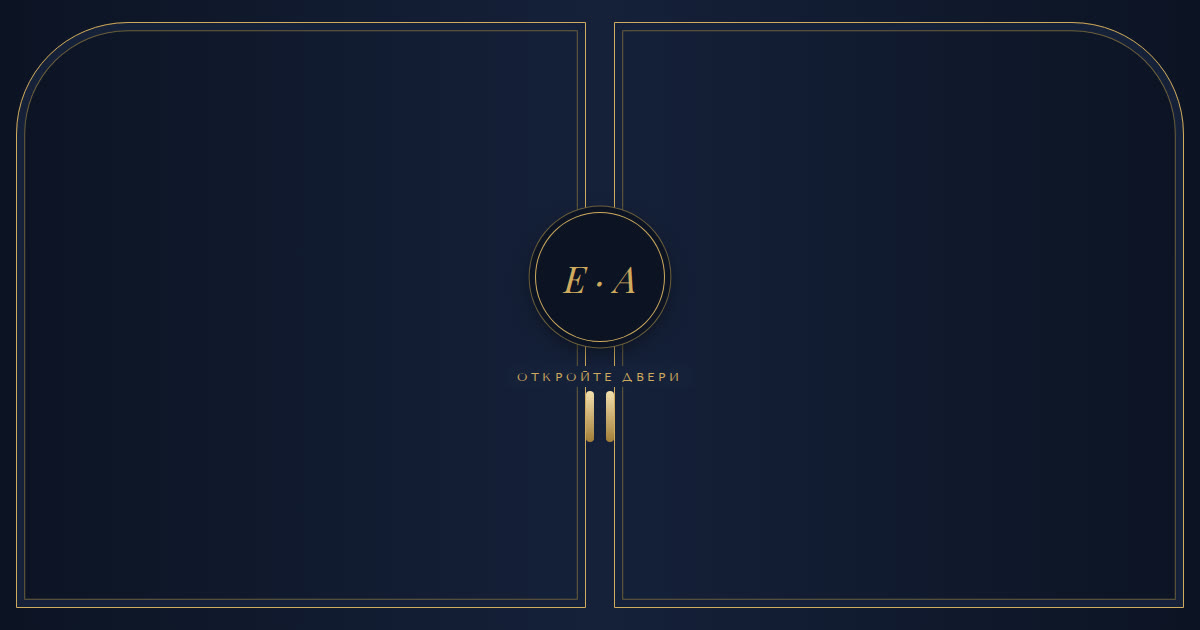
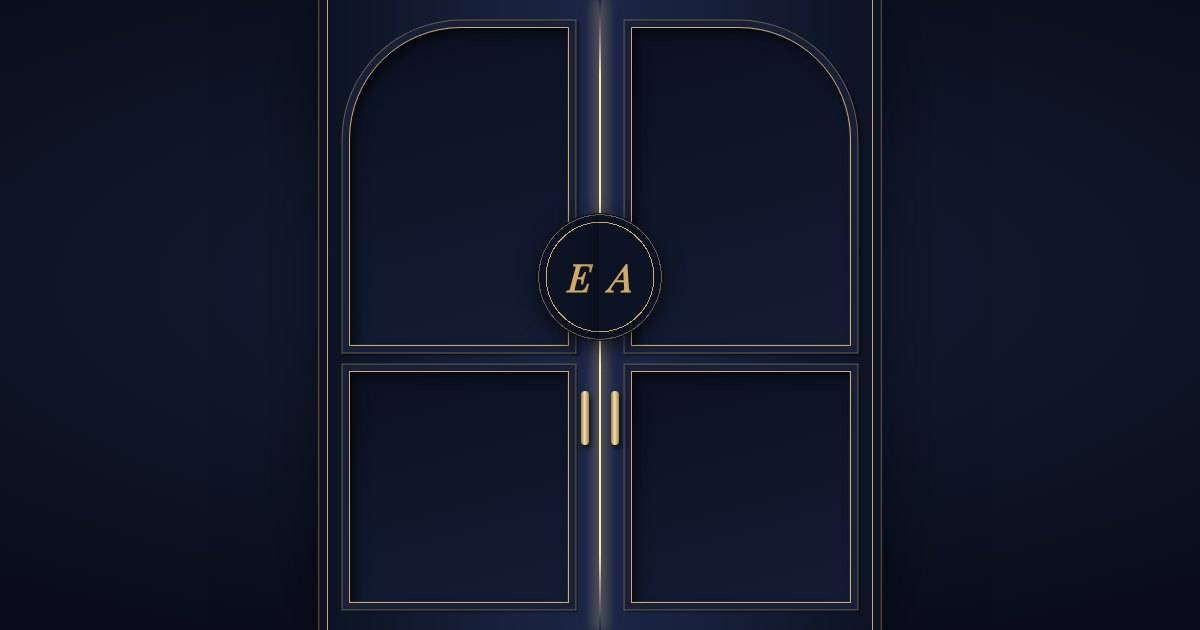
3D openings for garden (folded card with satin ribbon) and evening (hinged doors into a lit hall), shared tilt, new link previews

diff --git a/garden/index.html b/garden/index.html
@@ -17,7 +17,7 @@
 <link rel="stylesheet" href="https://fonts.googleapis.com/css2?family=Lora:ital,wght@0,400;0,500;1,400&family=Marck+Script&display=swap">
 <link rel="stylesheet" href="../assets/engine.css">
 <style>
-/* Письмо, сложенное вдвое и перевязанное лентой: мох, вода, латунь. */
+/* Карточка, сложенная вдвое и перевязанная лентой: мох, вода, латунь. */
 :root{
   --paper:#e8ecdd; --ink:#2e3a2f; --ink-soft:#66755f; --line:#aab89a; --accent:#5f7a4a; --card:#f1f3e6;
   --grain:var(--grain-url);
@@ -27,38 +27,86 @@
   --num-style:normal; --num-size:2rem;
   --card-shadow:0 1px 0 var(--line),0 10px 24px -18px rgba(30,50,30,.5);
   --w-sky:#dfe6d2; --w-leaf1:#8fa878; --w-leaf2:#55724f; --w-water:#a8c5c4; --w-bloom:#f6efd6; --w-reed:#4c5f3d;
-  --ribbon:#b79a5c; --ribbon-lo:#8f7541; --fold:#d6dec8;
-  --bg-delay:.9s;
+  --ribbon:#b79a5c; --ribbon-hi:#dcc68d; --ribbon-lo:#8f7541; --fold:#d6dec8;
+  --bg-delay:2.05s;
 }
-.pn{position:absolute;left:0;right:0;height:50.2%;background:var(--grain-url),var(--fold);
-  display:grid;place-items:center;transition:transform 1.1s cubic-bezier(.6,.05,.3,1) .55s,opacity .5s ease 1.2s;backface-visibility:hidden}
-.pn.top{top:0;transform-origin:50% 0;box-shadow:inset 0 -14px 18px -14px rgba(30,50,30,.35)}
-.pn.bot{bottom:0;transform-origin:50% 100%;box-shadow:inset 0 14px 18px -14px rgba(30,50,30,.35)}
-.pn b{font-family:var(--display);font-weight:400;font-size:clamp(2.6rem,13vw,3.6rem);color:var(--ink);line-height:1}
-.pn.top b{margin-top:-2.4rem}
-.pn.bot span{margin-top:3.2rem;font-size:.78rem;letter-spacing:.3em;text-transform:uppercase;color:var(--ink-soft)}
-.rib{position:absolute;left:0;right:0;top:50%;height:2.3rem;margin-top:-1.15rem;
-  background:linear-gradient(180deg,var(--ribbon),var(--ribbon-lo));box-shadow:0 3px 6px rgba(30,40,20,.3);
-  transition:transform .7s cubic-bezier(.6,0,.4,1)}
-.bow{position:absolute;left:50%;top:50%;width:0;height:0}
-.bow i{position:absolute;width:4.6rem;height:2.9rem;top:-1.45rem;border-radius:60% 40% 40% 60% / 55% 45% 55% 45%;
-  background:radial-gradient(ellipse at 60% 50%,transparent 38%,var(--ribbon) 40%),var(--ribbon-lo);
-  box-shadow:0 3px 5px rgba(30,40,20,.3)}
-.bow i:nth-child(1){right:.5rem;transform:rotate(-12deg)}
-.bow i:nth-child(2){left:.5rem;transform:rotate(192deg)}
-.bow u{position:absolute;width:1.5rem;height:1.9rem;left:-.75rem;top:-.95rem;border-radius:.4rem;background:var(--ribbon);box-shadow:inset 0 0 0 1px var(--ribbon-lo)}
-.hint{top:calc(50% + 6.8rem);color:var(--ink)}
-.open .rib{transform:translateX(115%)}
-.open .pn.top{transform:rotateX(-112deg);opacity:0}
-.open .pn.bot{transform:rotateX(112deg);opacity:0}
+/* Сложенная вдвое карточка лежит на столе: створки, атласная лента с бантом и веточка под ней на разной глубине. */
+:root{--cw:min(74vw,22rem,46vh)}
+.opener .bg{background:var(--grain-url),radial-gradient(ellipse 90% 70% at 50% 40%,#f3f6e9,var(--paper) 55%,#c9d3b8)}
+.stage{position:absolute;inset:0;display:grid;place-items:center;perspective:1300px;animation:float 6s ease-in-out infinite;transition:opacity .5s ease 2.25s}
+.stage::after{content:"";position:absolute;left:50%;top:50%;width:calc(var(--cw) * .9);height:2.2rem;margin:calc(var(--cw) * .72) 0 0 calc(var(--cw) * -.45);
+  border-radius:50%;background:rgba(30,50,30,.3);filter:blur(14px);transition:opacity .5s ease .8s}
+.fold{position:relative;width:var(--cw);aspect-ratio:5/7;transform-style:preserve-3d;
+  transform:rotateX(calc(14deg + var(--rx,0deg))) rotateY(var(--ry,0deg)) rotateZ(2deg);transition:transform .35s ease-out}
+.fold>*{position:absolute}
+.f-inner{inset:0;border-radius:.12rem;background:var(--grain-url),linear-gradient(180deg,#fcfbf2,#f1f0df);
+  box-shadow:inset 0 0 0 1px var(--line),inset 0 0 0 .4rem #fcfbf2,inset 0 0 0 calc(.4rem + 1px) #cfd8bf,0 1.4rem 2.2rem -1rem rgba(30,50,30,.55);
+  display:flex;flex-direction:column;align-items:center;justify-content:center;gap:.7rem;text-align:center;color:var(--ink)}
+.f-inner small,.flap small{font-size:.6rem;letter-spacing:.3em;text-transform:uppercase;color:var(--ink-soft)}
+.f-inner b{font-family:var(--display);font-weight:400;font-size:calc(var(--cw) * .17);line-height:1.05}
+.f-inner span{font-size:.8rem;letter-spacing:.16em}
+.flap{left:0;right:0;height:50%;transform-style:preserve-3d;transition:transform 1s cubic-bezier(.5,.05,.3,1)}
+.flap.top{top:0;transform-origin:50% 0;transform:translateZ(2px);transition-delay:.85s}
+.flap.bot{bottom:0;transform-origin:50% 100%;transform:translateZ(2px);transition-delay:1s}
+.flap>*{position:absolute;inset:0;backface-visibility:hidden;-webkit-backface-visibility:hidden;display:grid;place-items:center}
+.flap .out{background:var(--grain-url),linear-gradient(180deg,#e2e8d4,var(--fold))}
+.flap .out::before{content:"";position:absolute;inset:.6rem;border:1px solid var(--line)}
+.flap.top .out{box-shadow:inset 0 -12px 14px -12px rgba(30,50,30,.45)}
+.flap.top .out::before{bottom:0;border-bottom:0}
+.flap.bot .out{background:var(--grain-url),linear-gradient(0deg,#e2e8d4,var(--fold));box-shadow:inset 0 12px 14px -12px rgba(30,50,30,.3)}
+.flap.bot .out::before{top:0;border-top:0}
+.flap.top small{margin-top:-2.2rem}
+.flap.bot b{margin-top:2.6rem;font-family:var(--display);font-weight:400;font-size:calc(var(--cw) * .13);line-height:1;color:var(--ink)}
+.flap .in{transform:rotateX(180deg);background:var(--grain-url),linear-gradient(180deg,#f6f5e8,#eceadb)}
+.sprig{left:6%;top:50%;width:86%;margin-top:calc(var(--cw) * -.3);transform:translateZ(3px) rotate(-6deg);overflow:visible;
+  filter:drop-shadow(0 2px 2px rgba(30,40,20,.3));transition:transform .9s cubic-bezier(.5,0,.8,.5) .45s,opacity .5s ease .75s}
+.rib{left:0;right:0;top:50%;height:2rem;margin-top:-1rem;transform:translateZ(4px);transform-style:preserve-3d}
+.rib i{position:absolute;top:0;bottom:0;width:50%;
+  background:linear-gradient(180deg,var(--ribbon-hi),var(--ribbon) 38%,var(--ribbon-lo) 78%,#a88c50);box-shadow:0 3px 5px rgba(30,40,20,.35);
+  transition:transform .75s cubic-bezier(.6,0,.5,1) .4s,opacity .35s ease .8s}
+.rib i:nth-child(1){left:0;background-image:linear-gradient(90deg,rgba(60,45,15,.35),transparent 9%),linear-gradient(180deg,var(--ribbon-hi),var(--ribbon) 38%,var(--ribbon-lo) 78%,#a88c50)}
+.rib i:nth-child(2){right:0;background-image:linear-gradient(270deg,rgba(60,45,15,.35),transparent 9%),linear-gradient(180deg,var(--ribbon-hi),var(--ribbon) 38%,var(--ribbon-lo) 78%,#a88c50)}
+.bow{position:absolute;left:50%;top:50%;width:10.4rem;margin:-3.12rem 0 0 -5.2rem;transform:translateZ(5px);overflow:visible;filter:drop-shadow(0 3px 3px rgba(30,40,20,.4))}
+.bow .loop,.bow .tails,.bow .knot{transform-box:fill-box;transition:transform .45s cubic-bezier(.5,0,.6,1),opacity .3s ease .25s}
+.bow .loop.l{transform-origin:100% 62%}
+.bow .loop.r{transform-origin:0 62%}
+.bow .tails{transform-origin:50% 0;transition-delay:.15s,.4s}
+.bow .knot{transform-origin:50% 50%;transition-delay:.3s,.45s}
+.hint{top:calc(50% + var(--cw) * .7 + 2.6rem);color:var(--ink);opacity:.8}
+@keyframes float{50%{transform:translateY(-.45rem)}}
+.open .stage::after{opacity:0}
+.open .bow .loop{transform:scale(.05,.3);opacity:0}
+.open .bow .tails{transform:scaleY(1.5);opacity:0}
+.open .bow .knot{transform:scale(.2);opacity:0}
+.open .rib i:nth-child(1){transform:translateX(-115%);opacity:0}
+.open .rib i:nth-child(2){transform:translateX(115%);opacity:0}
+.open .sprig{transform:translateZ(3px) translate(-18%,160%) rotate(-38deg);opacity:0}
+.open .flap.top{transform:translateZ(2px) rotateX(172deg)}
+.open .flap.bot{transform:translateZ(2px) rotateX(-172deg)}
+.open .fold{transform:scale(2.1) rotateX(0deg);transition:transform .85s cubic-bezier(.6,0,.8,.4) 1.95s}
+.open .stage{opacity:0}
 </style>
 </head>
 <body>
-<div class="opener" id="opener" data-ms="1900" role="button" tabindex="0" aria-label="Открыть приглашение">
+<div class="opener" id="opener" data-ms="2850" role="button" tabindex="0" aria-label="Открыть приглашение">
   <div class="bg"></div>
-  <div class="pn top"><b>Вера и Глеб</b></div>
-  <div class="pn bot"><span>Приглашение</span></div>
-  <div class="rib"><div class="bow"><i></i><i></i><u></u></div></div>
+  <div class="stage">
+    <div class="fold" data-tilt>
+      <div class="f-inner"><small>Приглашение на свадьбу</small><b>Вера<br>и Глеб</b><span>12 июня 2027</span></div>
+      <div class="flap top"><div class="out"><small>Тайна речного сада</small></div><div class="in"></div></div>
+      <div class="flap bot"><div class="out"><b>В и Г</b></div><div class="in"></div></div>
+      <svg class="sprig" viewBox="0 0 180 100" aria-hidden="true"><path d="M8 92Q78 74 172 12" fill="none" style="stroke:var(--w-reed)" stroke-width="1.6" stroke-linecap="round"/><path d="M0 0C5-7 17-8 25 0 17 7 5 6 0 0Z" transform="translate(25.1 87.0) rotate(-66) scale(1.08)" style="fill:var(--w-leaf1)"/><path d="M0 0C5-7 17-8 25 0 17 7 5 6 0 0Z" transform="translate(41.1 81.5) rotate(28) scale(1.02)" style="fill:var(--w-leaf2)"/><path d="M0 0C5-7 17-8 25 0 17 7 5 6 0 0Z" transform="translate(57.6 75.0) rotate(-71) scale(0.97)" style="fill:var(--w-leaf2)"/><path d="M0 0C5-7 17-8 25 0 17 7 5 6 0 0Z" transform="translate(74.6 67.5) rotate(23) scale(0.91)" style="fill:var(--w-leaf1)"/><path d="M0 0C5-7 17-8 25 0 17 7 5 6 0 0Z" transform="translate(92.3 58.9) rotate(-75) scale(0.85)" style="fill:var(--w-leaf2)"/><path d="M0 0C5-7 17-8 25 0 17 7 5 6 0 0Z" transform="translate(110.4 49.3) rotate(19) scale(0.79)" style="fill:var(--w-leaf2)"/><path d="M0 0C5-7 17-8 25 0 17 7 5 6 0 0Z" transform="translate(129.1 38.7) rotate(-78) scale(0.73)" style="fill:var(--w-leaf1)"/><path d="M0 0C5-7 17-8 25 0 17 7 5 6 0 0Z" transform="translate(148.4 27.1) rotate(16) scale(0.67)" style="fill:var(--w-leaf2)"/><path d="M0 0C5-7 17-8 25 0 17 7 5 6 0 0Z" transform="translate(168.2 14.5) rotate(-81) scale(0.61)" style="fill:var(--w-leaf2)"/><path d="M0 0C5-7 17-8 25 0 17 7 5 6 0 0Z" transform="translate(172.0 12.0) rotate(-32) scale(.6)" style="fill:var(--w-leaf2)"/></svg>
+      <div class="rib"><i></i><i></i>
+        <svg class="bow" viewBox="-100 -60 200 150" aria-hidden="true">
+          <defs><linearGradient id="rg" x1="0" y1="0" x2="0" y2="1"><stop offset="0" style="stop-color:var(--ribbon-hi)"/><stop offset=".5" style="stop-color:var(--ribbon)"/><stop offset="1" style="stop-color:var(--ribbon-lo)"/></linearGradient></defs>
+          <g class="tails"><path d="M-6 4C-18 30-34 50-50 72l15-5 5 14C-22 56-8 32 6 8Z" fill="url(#rg)"/><path d="M6 4C18 30 34 50 50 72l-15-5-5 14C22 56 8 32-6 8Z" fill="url(#rg)"/></g>
+          <g class="loop l"><path d="M0 0C-28-44-92-52-90-8-88 30-34 24 0 0Z" fill="url(#rg)"/><path d="M-16-3C-38-27-74-32-73-9-72 12-40 9-16-3Z" fill="#6f5a30" opacity=".85"/><path d="M-12-12C-34-38-70-44-82-22" fill="none" stroke="#f3e3b4" stroke-width="2.2" stroke-linecap="round" opacity=".7"/></g>
+          <g class="loop r"><g transform="scale(-1 1)"><path d="M0 0C-28-44-92-52-90-8-88 30-34 24 0 0Z" fill="url(#rg)"/><path d="M-16-3C-38-27-74-32-73-9-72 12-40 9-16-3Z" fill="#6f5a30" opacity=".85"/><path d="M-12-12C-34-38-70-44-82-22" fill="none" stroke="#f3e3b4" stroke-width="2.2" stroke-linecap="round" opacity=".7"/></g></g>
+          <rect class="knot" x="-11" y="-13" width="22" height="26" rx="8" fill="url(#rg)" style="stroke:var(--ribbon-lo)" stroke-width="1"/>
+        </svg>
+      </div>
+    </div>
+  </div>
   <div class="hint">Развяжите ленту</div>
 </div>
 <main class="letter" id="letter"></main>

diff --git a/evening/index.html b/evening/index.html
@@ -31,37 +31,68 @@
   --card-shadow:inset 0 0 0 1px var(--line);
   --w-sky:#18223b; --w-leaf1:#1f2c4a; --w-leaf2:#0a1020; --w-water:#18223b; --w-bloom:#f0cf8a; --w-reed:#d2ab5f;
   --door-1:#16203a; --door-2:#0c1324;
-  --bg-delay:.5s;
+  --bg-delay:1.55s;
 }
 h1 span:not(.amp){background:linear-gradient(180deg,#f3dfae,#c39a4e);-webkit-background-clip:text;background-clip:text;color:transparent}
 .scene,.venue canvas{-webkit-mask-image:linear-gradient(180deg,transparent,#000 18%,#000 80%,transparent);mask-image:linear-gradient(180deg,transparent,#000 18%,#000 80%,transparent)}
 .btn:hover{color:#10182b}
-.door{position:absolute;top:0;bottom:0;width:50.2%;transition:transform 1.3s cubic-bezier(.6,.05,.3,1) .3s}
-.door.l{left:0;transform-origin:0 50%;background:linear-gradient(90deg,var(--door-2),var(--door-1))}
-.door.r{right:0;transform-origin:100% 50%;background:linear-gradient(270deg,var(--door-2),var(--door-1))}
-.door::before{content:"";position:absolute;inset:1.4rem 1rem;border:1px solid var(--accent);box-shadow:inset 0 0 0 .45rem var(--door-1),inset 0 0 0 calc(.45rem + 1px) var(--line)}
-.door.l::before{border-radius:7rem 0 0 0}
-.door.r::before{border-radius:0 7rem 0 0}
-.door::after{content:"";position:absolute;top:62%;width:.5rem;height:3.2rem;border-radius:.3rem;background:linear-gradient(180deg,#f3dfae,#a57f3a)}
-.door.l::after{right:.55rem}
-.door.r::after{left:.55rem}
-.medal{position:absolute;left:50%;top:44%;width:8rem;height:8rem;margin:-4rem 0 0 -4rem;border-radius:50%;
-  background:var(--door-2);box-shadow:0 0 0 1px var(--accent),0 0 0 .4rem var(--door-2),0 0 0 calc(.4rem + 1px) var(--line),0 8px 24px rgba(0,0,0,.6);
-  display:grid;place-items:center;font-family:var(--display);font-style:italic;font-size:2.3rem;color:var(--accent);
-  transition:transform .45s ease,opacity .4s ease}
+/* Двери зала: створки с филёнками на петлях, щель света между ними, за дверями тёплый зал. */
+.opener .bg{background:radial-gradient(ellipse 80% 60% at 50% 45%,#16203a,#080d19)}
+.hall{position:absolute;inset:0;margin-inline:auto;width:min(100%,34rem);perspective:1100px;perspective-origin:50% 46%;
+  box-shadow:0 0 0 1px var(--accent),0 0 0 .55rem var(--door-2),0 0 0 calc(.55rem + 1px) var(--line),0 0 5rem rgba(0,0,0,.6);
+  transition:transform 1.15s cubic-bezier(.55,0,.85,.5) 1.05s,opacity .6s ease 1.6s}
+.glow{position:absolute;inset:0;overflow:hidden;
+  background:radial-gradient(ellipse 95% 58% at 50% 50%,#fff4d6,#f3d594 22%,#c2924a 48%,#4a3820 76%,var(--paper))}
+.glow::before{content:"";position:absolute;inset:0;filter:blur(1.5px);
+  background:radial-gradient(circle at 22% 24%,rgba(255,241,201,.8) 0 .22rem,transparent .9rem),radial-gradient(circle at 74% 18%,rgba(255,241,201,.8) 0 .18rem,transparent .8rem),
+    radial-gradient(circle at 86% 36%,rgba(255,241,201,.8) 0 .25rem,transparent 1rem),radial-gradient(circle at 12% 44%,rgba(255,241,201,.8) 0 .2rem,transparent .8rem),
+    radial-gradient(circle at 36% 12%,rgba(255,241,201,.8) 0 .16rem,transparent .7rem),radial-gradient(circle at 62% 30%,rgba(255,241,201,.8) 0 .14rem,transparent .6rem)}
+.glow::after{content:"";position:absolute;left:0;right:0;bottom:0;height:26%;background:linear-gradient(180deg,transparent,rgba(16,24,43,.7))}
+.door{position:absolute;top:0;bottom:0;width:50.1%;transition:transform 1.35s cubic-bezier(.55,.05,.25,1) .28s}
+.door.l{left:0;transform-origin:0 50%;background:linear-gradient(90deg,var(--door-2),var(--door-1) 60%,#1b2747)}
+.door.r{right:0;transform-origin:100% 50%;background:linear-gradient(270deg,var(--door-2),var(--door-1) 60%,#1b2747)}
+.door::before{content:"";position:absolute;top:62%;width:.5rem;height:3.4rem;border-radius:.3rem;z-index:1;
+  background:linear-gradient(90deg,#a57f3a,#f3dfae 45%,#a57f3a);box-shadow:.15rem .25rem .35rem rgba(0,0,0,.55)}
+.door.l::before{right:.7rem}
+.door.r::before{left:.7rem}
+.door::after{content:"";position:absolute;inset:0;opacity:0;transition:opacity 1s ease .5s;pointer-events:none}
+.door.l::after{background:linear-gradient(90deg,transparent 25%,rgba(240,207,138,.4))}
+.door.r::after{background:linear-gradient(270deg,transparent 25%,rgba(240,207,138,.4))}
+.pan{position:absolute;border:1px solid var(--accent);background:linear-gradient(165deg,#0b1122,#131c33);
+  box-shadow:inset .3rem .35rem .7rem rgba(0,0,0,.6),inset -1px -1px 0 rgba(239,230,210,.1),0 0 0 .4rem var(--door-1),0 0 0 calc(.4rem + 1px) var(--line),.12rem .14rem .1rem calc(.4rem + 1px) rgba(0,0,0,.35)}
+.pan.a{top:1.7rem;height:calc(55% - 1.7rem)}
+.pan.b{top:calc(55% + 1.5rem);bottom:1.7rem}
+.door.l .pan{left:1.3rem;right:2rem}
+.door.r .pan{left:2rem;right:1.3rem}
+.door.l .pan.a{border-radius:min(7rem,34vw) 0 0 0}
+.door.r .pan.a{border-radius:0 min(7rem,34vw) 0 0}
+.mono{position:absolute;top:44%;width:4rem;height:8rem;margin-top:-4rem;z-index:1;display:flex;align-items:center;
+  font-family:var(--display);font-style:italic;font-size:2.4rem;color:var(--accent);filter:drop-shadow(0 6px 10px rgba(0,0,0,.6))}
+.door.l .mono{right:0;border-radius:4rem 0 0 4rem;justify-content:flex-end;padding-right:.6rem;
+  background:radial-gradient(circle at 100% 50%,var(--door-2) 0 3.4rem,var(--accent) 3.4rem calc(3.4rem + 1px),var(--door-2) calc(3.4rem + 1px) 3.86rem,var(--line) 3.86rem calc(3.86rem + 1px),var(--door-2) calc(3.86rem + 1px))}
+.door.r .mono{left:0;border-radius:0 4rem 4rem 0;padding-left:.6rem;
+  background:radial-gradient(circle at 0 50%,var(--door-2) 0 3.4rem,var(--accent) 3.4rem calc(3.4rem + 1px),var(--door-2) calc(3.4rem + 1px) 3.86rem,var(--line) 3.86rem calc(3.86rem + 1px),var(--door-2) calc(3.86rem + 1px))}
+.seam{position:absolute;left:50%;top:0;bottom:0;width:2px;margin-left:-1px;background:linear-gradient(180deg,transparent,#ffe9b8 12%,#ffe9b8 88%,transparent);
+  box-shadow:0 0 14px 3px rgba(240,207,138,.5);animation:breathe 3.4s ease-in-out infinite;transition:opacity .35s ease}
 .hint{top:calc(44% + 5.6rem);color:var(--accent)}
 .hint span{background:var(--door-1);padding:.2rem .6rem}
-.open .medal{transform:scale(.7);opacity:0}
-.open .door.l{transform:rotateY(104deg)}
-.open .door.r{transform:rotateY(-104deg)}
+@keyframes breathe{0%,100%{opacity:.45}50%{opacity:1}}
+.open .seam{animation:none;opacity:0}
+.open .door.l{transform:rotateY(84deg)}
+.open .door.r{transform:rotateY(-84deg)}
+.open .door::after{opacity:1}
+.open .hall{transform:scale(1.5);opacity:0}
 </style>
 </head>
 <body>
-<div class="opener" id="opener" data-ms="1700" role="button" tabindex="0" aria-label="Открыть приглашение">
+<div class="opener" id="opener" data-ms="2450" role="button" tabindex="0" aria-label="Открыть приглашение">
   <div class="bg"></div>
-  <div class="door l"></div>
-  <div class="door r"></div>
-  <div class="medal">Е · А</div>
+  <div class="hall">
+    <div class="glow"></div>
+    <div class="door l"><i class="pan a"></i><i class="pan b"></i><b class="mono">Е</b></div>
+    <div class="door r"><i class="pan a"></i><i class="pan b"></i><b class="mono">А</b></div>
+    <div class="seam"></div>
+  </div>
   <div class="hint"><span>Откройте двери</span></div>
 </div>
 <main class="letter" id="letter"></main>

diff --git a/index.html b/index.html
@@ -89,7 +89,7 @@ footer{margin-top:3.5rem;padding-top:1.25rem;border-top:1px solid var(--line);co
     </a></li>
     <li><a class="work" href="garden/">
       <div class="phone p2"><div class="names">Вера<br>и Глеб</div><div class="cap">12 июня 2027</div></div>
-      <div class="meta"><b>Речной сад</b><span>Письмо, перевязанное лентой; зелень, вода и мох</span><em>Смотреть вживую →</em></div>
+      <div class="meta"><b>Речной сад</b><span>Сложенная карточка с атласной лентой и веточкой; зелень, вода и мох</span><em>Смотреть вживую →</em></div>
     </a></li>
     <li><a class="work" href="mono/">
       <div class="phone p3"><div class="cap">Свадьба · 04.09.27</div><div class="names">С<i>&amp;</i><br>Н</div></div>
@@ -97,7 +97,7 @@ footer{margin-top:3.5rem;padding-top:1.25rem;border-top:1px solid var(--line);co
     </a></li>
     <li><a class="work" href="evening/">
       <div class="phone p4"><div class="names">Е · А</div><div class="cap">18 декабря 2027</div></div>
-      <div class="meta"><b>Вечер</b><span>Распашные двери, тёмно-синий и латунь, огни гирлянд</span><em>Смотреть вживую →</em></div>
+      <div class="meta"><b>Вечер</b><span>Двери в освещённый зал, тёмно-синий и латунь, огни гирлянд</span><em>Смотреть вживую →</em></div>
     </a></li>
     <li><a class="work" href="ticket/">
       <div class="phone p5"><div class="tk"><div class="cap">Посадочный талон</div><div class="names">Лиза + Тимур</div><div class="bar"></div></div></div>

diff --git a/tools/shot.js b/tools/shot.js
@@ -1,0 +1,21 @@
+// Кадры открытия в реальном времени: node tools/shot.js <папка работы> <префикс файлов> <ширина> <высота> <мс после нажатия через запятую>
+const {chromium} = require('/home/vibe/.local/share/3d-tools/node_modules/playwright');
+(async () => {
+  const [page_, out, w, h, times] = process.argv.slice(2);
+  const exe = require('child_process').execSync('ls ~/.cache/ms-playwright/chromium_headless_shell-*/chrome-headless-shell-linux64/chrome-headless-shell | tail -1').toString().trim();
+  const b = await chromium.launch({executablePath: exe, args: ['--no-sandbox']});
+  const p = await b.newPage({viewport: {width: +w, height: +h}, deviceScaleFactor: 2});
+  const errs = []; p.on('pageerror', e => errs.push(e.message)); p.on('console', m => m.type() === 'error' && errs.push(m.text()));
+  await p.goto('file://' + require('path').resolve(__dirname, '..') + '/' + page_ + '/index.html');
+  await p.waitForTimeout(1200);
+  await p.screenshot({path: out + '-0.png'});
+  if (times) {
+    const t0 = Date.now(); await p.click('#opener');
+    for (const t of times.split(',')) {
+      const d = +t - (Date.now() - t0); if (d > 0) await p.waitForTimeout(d);
+      await p.screenshot({path: out + '-' + t + '.png'});
+    }
+  }
+  if (errs.length) console.log('ERRORS', errs);
+  await b.close();
+})();

diff --git a/pudra/index.html b/pudra/index.html
@@ -86,7 +86,7 @@
 <div class="opener" id="opener" data-ms="2800" role="button" tabindex="0" aria-label="Открыть приглашение">
   <div class="bg"></div>
   <div class="stage">
-    <div class="env3" id="env3">
+    <div class="env3" data-tilt>
       <div class="e-back"></div>
       <div class="e-card"><small>Приглашение</small><b>Анна и Михаил</b><span>17 · 07 · 2027</span></div>
       <div class="e-front"><i class="l"></i><i class="r"></i><i class="b"></i></div>
@@ -118,17 +118,5 @@ window.INVITE = {
 };
 </script>
 <script src="../assets/engine.js"></script>
-<script>
-/* Конверт слегка поворачивается за указателем, пока закрыт. */
-(() => {
-  const op = document.getElementById('opener'), env = document.getElementById('env3');
-  if (matchMedia('(prefers-reduced-motion: reduce)').matches) return;
-  op.addEventListener('pointermove', e => {
-    if (op.classList.contains('open')) return;
-    env.style.setProperty('--ry', ((e.clientX / innerWidth - .5) * 14).toFixed(1) + 'deg');
-    env.style.setProperty('--rx', ((.5 - e.clientY / innerHeight) * 10).toFixed(1) + 'deg');
-  });
-})();
-</script>
 </body>
 </html>

diff --git a/assets/engine.js b/assets/engine.js
@@ -223,9 +223,17 @@
     requestAnimationFrame(() => requestAnimationFrame(() => op.classList.remove('open')));
   });
 
+  /* ---------- сцена открытия слегка поворачивается за указателем ---------- */
+  const calm = matchMedia('(prefers-reduced-motion: reduce)').matches, tilt = op.querySelector('[data-tilt]');
+  if (tilt && !calm) op.addEventListener('pointermove', e => {
+    if (op.classList.contains('open')) return;
+    tilt.style.setProperty('--ry', ((e.clientX / innerWidth - .5) * 14).toFixed(1) + 'deg');
+    tilt.style.setProperty('--rx', ((.5 - e.clientY / innerHeight) * 10).toFixed(1) + 'deg');
+  });
+
   /* ---------- параллакс обложки ---------- */
   const scene = letter.querySelector('.cover .scene, .cover .pair');
-  if (scene && !matchMedia('(prefers-reduced-motion: reduce)').matches) {
+  if (scene && !calm) {
     let busy = false;
     addEventListener('scroll', () => {
       if (busy) return; busy = true;
